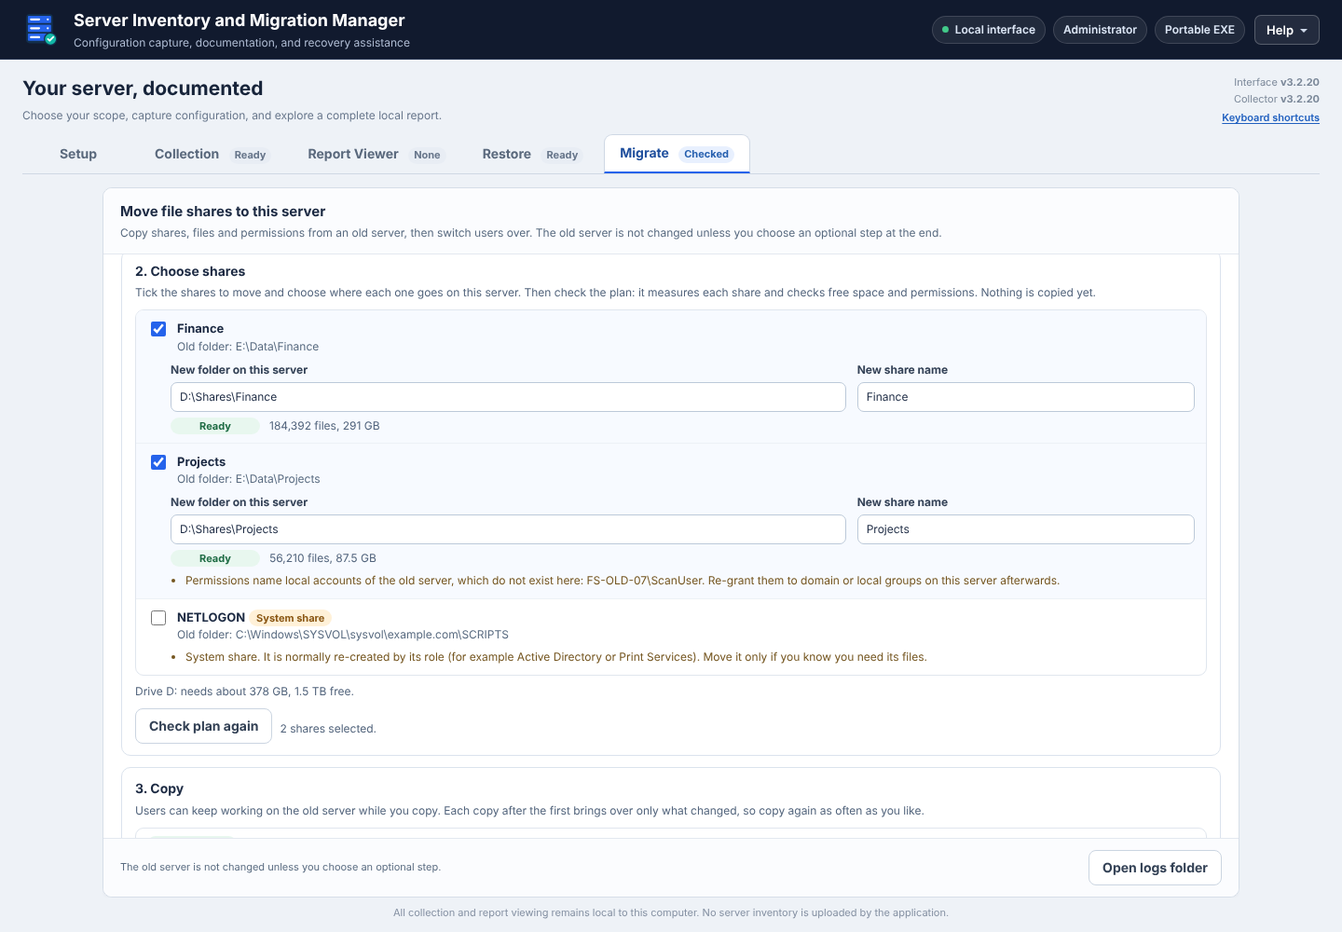
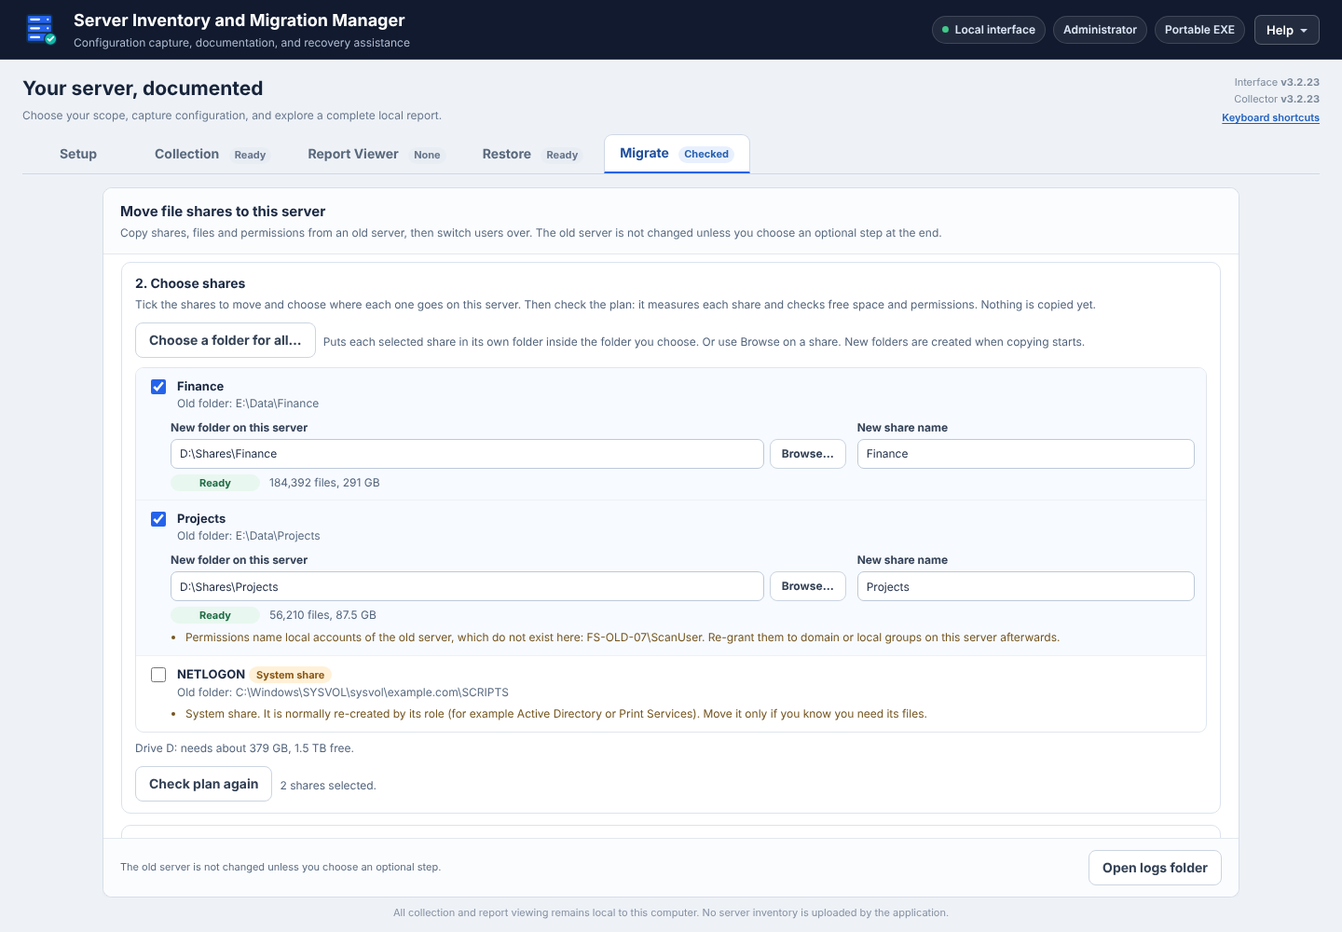
Migrate: choose new folders with the folder picker and check the shares work
Browse per share and Choose a folder for all open the Windows folder
picker. The new top folder gets the old top folder's permissions, which
Robocopy does not copy, and cutover opens each new share through its
network path. Windows, program and profile folders are refused.

Claude-Session: https://claude.ai/code/session_01AkZzWJd4n8w9BN2QEhNZPv

Changed region(s): [[0.0938, 0.279, 0.8125, 0.899], [0.7188, 0.682, 0.7812, 0.713]]

diff --git a/src/app/index.html b/src/app/index.html
@@ -409,6 +409,7 @@ kbd{display:inline-block;min-width:20px;padding:1px 6px;border:1px solid #c9d2df
 .migrate-share-path{display:block;font-size:12px;font-weight:400;color:#596b80;overflow-wrap:anywhere}
 .migrate-dest{display:grid;grid-template-columns:minmax(0,2fr) minmax(0,1fr);gap:8px 12px;margin:8px 0 0 25px}
 .migrate-dest label{display:block;font-size:12px;font-weight:650;color:#334156;min-width:0}
+.migrate-dest-path{display:flex;gap:6px;margin-top:4px;min-width:0}.migrate-dest-path input{margin-top:0!important;flex:1 1 auto;min-width:0}.migrate-dest-path button{flex:none;min-height:32px;padding:0 12px;font-size:12px}
 .migrate-dest input{display:block;width:100%;box-sizing:border-box;height:32px;margin-top:4px;border:1px solid #bcc9d9;border-radius:7px;padding:0 9px;font:inherit;font-size:12px;font-weight:400;color:#1b2942}
 .migrate-notes{margin:6px 0 0 25px;padding-left:16px;font-size:12px}.migrate-notes li{margin:2px 0}
 .migrate-notes .warn{color:#74551f}.migrate-notes .problem{color:#8c2626;font-weight:600}
@@ -671,6 +672,7 @@ kbd{display:inline-block;min-width:20px;padding:1px 6px;border:1px solid #c9d2df
           <section class="migrate-section inactive" id="migrateStepChoose" aria-labelledby="migrateChooseTitle">
             <h3 class="migrate-section-title" id="migrateChooseTitle">2. Choose shares</h3>
             <p class="migrate-help">Tick the shares to move and choose where each one goes on this server. Then check the plan: it measures each share and checks free space and permissions. Nothing is copied yet.</p>
+            <div class="migrate-row hidden" id="migrateParentRow"><button class="secondary-button" id="migrateParent" type="button">Choose a folder for all&hellip;</button><span class="migrate-help">Puts each selected share in its own folder inside the folder you choose. Or use Browse on a share. New folders are created when copying starts.</span></div>
             <div class="migrate-shares hidden" id="migrateShares"></div>
             <div class="migrate-space hidden" id="migrateSpace"></div>
             <div class="migrate-row"><button class="secondary-button" id="migrateCheck" type="button" disabled>Check plan</button><span class="migrate-help" id="migrateSelectionSummary"></span></div>
@@ -1606,7 +1608,10 @@ kbd{display:inline-block;min-width:20px;padding:1px 6px;border:1px solid #c9d2df
       head.appendChild(box);head.appendChild(main);row.appendChild(head);
       var dest=el('div','migrate-dest');dest.setAttribute('data-migrate-dest-block',name);
       var pathLabel=el('label','','New folder on this server'),pathInput=document.createElement('input');pathInput.type='text';pathInput.setAttribute('data-migrate-dest',name);pathInput.spellcheck=false;pathInput.autocomplete='off';pathInput.value=migrateSelection[name].destPath;
-      pathInput.addEventListener('input',function(){migrateSelection[name].destPath=this.value;syncMigrateButtons();});pathLabel.appendChild(pathInput);
+      pathInput.addEventListener('input',function(){migrateSelection[name].destPath=this.value;syncMigrateButtons();});
+      var pathRow=el('span','migrate-dest-path'),browse=el('button','secondary-button','Browse\u2026');browse.type='button';browse.setAttribute('data-migrate-browse',name);browse.setAttribute('aria-label','Browse for the new folder of '+name);
+      browse.addEventListener('click',function(e){e.preventDefault();browseMigrateFolder(name);});
+      pathRow.appendChild(pathInput);pathRow.appendChild(browse);pathLabel.appendChild(pathRow);
       var nameLabel=el('label','','New share name'),nameInput=document.createElement('input');nameInput.type='text';nameInput.setAttribute('data-migrate-destname',name);nameInput.spellcheck=false;nameInput.autocomplete='off';nameInput.value=migrateSelection[name].destName;
       nameInput.addEventListener('input',function(){migrateSelection[name].destName=this.value;syncMigrateButtons();});nameLabel.appendChild(nameInput);
       dest.appendChild(pathLabel);dest.appendChild(nameLabel);row.appendChild(dest);
@@ -1636,7 +1641,7 @@ kbd{display:inline-block;min-width:20px;padding:1px 6px;border:1px solid #c9d2df
       box.disabled=locked||!(share&&share.remotePath);if(sel.on){count++;}
       row.className='migrate-share'+(sel.on?' selected':'');
       row.querySelector('[data-migrate-dest-block]').classList.toggle('hidden',!sel.on);
-      var inputs=row.querySelectorAll('[data-migrate-dest-block] input');for(var i=0;i<inputs.length;i++){inputs[i].disabled=locked;}
+      var inputs=row.querySelectorAll('[data-migrate-dest-block] input,[data-migrate-dest-block] button');for(var i=0;i<inputs.length;i++){inputs[i].disabled=locked;}
       renderMigrateCheck(name,row);
     });
     byId('migrateSelectionSummary').textContent=count?(count===1?'1 share selected.':count+' shares selected.'):'No shares selected.';
@@ -1652,6 +1657,7 @@ kbd{display:inline-block;min-width:20px;padding:1px 6px;border:1px solid #c9d2df
     var held=!!(m.account&&other&&trimText(byId('migrateUser').value).toLowerCase()===String(m.account).toLowerCase());
     byId('migratePassword').placeholder=held?'Password (kept for this session)':'Password';
     byId('migrateReset').classList.toggle('hidden',!(m.source||discovery));byId('migrateReset').disabled=locked;
+    byId('migrateParentRow').classList.toggle('hidden',!discovery||!(discovery.shares||[]).length);byId('migrateParent').disabled=locked||!chosen.length;
     byId('migrateCheck').disabled=locked||!discovery||!chosen.length;byId('migrateCheck').textContent=m.prechecked&&!dirty?'Check plan again':'Check plan';
     var copy=byId('migrateCopy');copy.disabled=locked||!m.canCopy||dirty;copy.textContent=anySynced?'Copy again':'Copy now';
     copy.title=dirty&&discovery?'Check the plan after changing it.':(!m.canCopy?'Check the plan, and fix any problem it finds, first.':'');
@@ -1777,6 +1783,28 @@ kbd{display:inline-block;min-width:20px;padding:1px 6px;border:1px solid #c9d2df
     }
     migratePost('/api/migrate/discover',body,'migrateConnectStatus',function(err){byId('migratePassword').value='';if(!err){migrateMarkRunning('discover','discovering','Connecting to '+label+'.');}});
   }
+  function migrateFolderName(name){return String(name).replace(/\$$/,'').replace(/[\\\/:*?"<>|]/g,'_').replace(/[. ]+$/,'')||'Share';}
+  function browseMigrateFolder(name){
+    if(migrateLocked()){return;}
+    migratePost('/api/migrate/browse',{share:name},'migrateCheckStatus',function(err,data){
+      if(err||!data||!data.selected||!migrateSelection[name]){return;}
+      migrateSelection[name].destPath=data.path;var input=document.querySelector('input[data-migrate-dest="'+name.replace(/"/g,'\\"')+'"]');if(input){input.value=data.path;}
+      syncMigrateShares();
+    });
+  }
+  function chooseMigrateParent(){
+    if(migrateLocked()||!migrateSelectedShares().length){return;}
+    migratePost('/api/migrate/browse',{parent:true},'migrateCheckStatus',function(err,data){
+      if(err||!data||!data.selected){return;}
+      var base=String(data.path).replace(/\\+$/,''),count=0;
+      migrateOrder.forEach(function(name){
+        var sel=migrateSelection[name];if(!sel||!sel.on){return;}
+        sel.destPath=base+'\\'+migrateFolderName(trimText(sel.destName)||name);count++;
+        var input=document.querySelector('input[data-migrate-dest="'+name.replace(/"/g,'\\"')+'"]');if(input){input.value=sel.destPath;}
+      });
+      syncMigrateShares();migrateSetStatus('migrateCheckStatus',(count===1?'1 share':count+' shares')+' will go in '+data.path+'. Check the plan again.',false);
+    });
+  }
   function checkMigratePlan(){
     var shares=migrateSelectedShares();if(!shares.length||migrateLocked()){return;}
     migratePost('/api/migrate/plan',{shares:shares},'migrateCheckStatus',function(err){
@@ -1813,6 +1841,7 @@ kbd{display:inline-block;min-width:20px;padding:1px 6px;border:1px solid #c9d2df
   byId('migrateSource').addEventListener('input',syncMigrateButtons);
   byId('migrateSource').addEventListener('keydown',function(e){if(e.key==='Enter'){e.preventDefault();connectMigrate();}});
   byId('migrateConnect').addEventListener('click',connectMigrate);
+  byId('migrateParent').addEventListener('click',chooseMigrateParent);
   ['migrateAccountCurrent','migrateAccountOther'].forEach(function(id){byId(id).addEventListener('change',function(){syncMigrateButtons();if(byId('migrateAccountOther').checked){byId('migrateUser').focus();}});});
   byId('migrateUser').addEventListener('input',syncMigrateButtons);
   ['migrateUser','migratePassword'].forEach(function(id){byId(id).addEventListener('keydown',function(e){if(e.key==='Enter'){e.preventDefault();connectMigrate();}});});

diff --git a/src/app/migrate.go b/src/app/migrate.go
@@ -702,6 +702,9 @@ func validateMigratePlan(discovery *migrateDiscovery, input []migratePlanInput, 
 		if names[strings.ToUpper(destName)] {
 			return nil, fmt.Errorf("The share name %s is used twice.", destName)
 		}
+		if reason := migrateProtectedFolder(destPath); reason != "" {
+			return nil, fmt.Errorf("The new folder for %s is %s. Choose a folder for shared data, such as D:\\Shares\\%s.", source.Name, reason, source.Name)
+		}
 		names[strings.ToUpper(destName)] = true
 		lower := strings.ToLower(destPath) + `\`
 		for _, other := range paths {
@@ -717,6 +720,88 @@ func validateMigratePlan(discovery *migrateDiscovery, input []migratePlanInput, 
 		plan = append(plan, state)
 	}
 	return plan, nil
+}
+
+// migrateProtectedFolder names why a folder must not receive a mirrored copy:
+// Windows, program and profile folders would be damaged by Robocopy /MIR.
+func migrateProtectedFolder(path string) string {
+	clean := strings.ToLower(filepath.Clean(path))
+	protected := map[string]string{
+		"SystemRoot":        "inside the Windows folder",
+		"ProgramFiles":      "inside Program Files",
+		"ProgramFiles(x86)": "inside Program Files",
+		"ProgramData":       "inside ProgramData",
+		"PUBLIC":            "inside the user profiles folder",
+	}
+	for variable, reason := range protected {
+		root := os.Getenv(variable)
+		if variable == "PUBLIC" && root != "" {
+			root = filepath.Dir(root)
+		}
+		if root == "" {
+			continue
+		}
+		root = strings.ToLower(filepath.Clean(root))
+		if clean == root || strings.HasPrefix(clean, root+`\`) {
+			return reason
+		}
+	}
+	if len(clean) == 2 && clean[1] == ':' {
+		return "a drive root"
+	}
+	return ""
+}
+
+// handleMigrateBrowse opens the Windows folder picker on this server for a
+// share's new folder (or a parent folder for every share). The picker can
+// make new folders; the copy creates a missing folder itself.
+func (a *application) handleMigrateBrowse(response http.ResponseWriter, request *http.Request) {
+	if !a.requireAuthorization(response, request) {
+		return
+	}
+	var input struct {
+		Share  string `json:"share"`
+		Parent bool   `json:"parent"`
+	}
+	if !decodeMigrateRequest(response, request, &input) {
+		return
+	}
+	if !a.beginCriticalOperation() {
+		writeJSON(response, http.StatusConflict, map[string]any{"ok": false, "error": "An update is being installed."})
+		return
+	}
+	defer a.endCriticalOperation()
+	if a.migrateBusy() {
+		writeJSON(response, http.StatusConflict, map[string]any{"ok": false, "error": "Wait for the current step to finish."})
+		return
+	}
+	title := "Choose the parent folder for the new shares on this server. Each share gets its own folder inside it. Use Make New Folder to create one."
+	if !input.Parent {
+		share := strings.TrimSpace(input.Share)
+		if len(share) > 80 {
+			share = share[:80]
+		}
+		title = "Choose the folder on this server for the share " + share + ". Use Make New Folder to create one. It must be empty or new."
+	}
+	selectedPath, selected, err := chooseFolder(title)
+	if err != nil {
+		writeJSON(response, http.StatusInternalServerError, map[string]any{"ok": false, "error": err.Error()})
+		return
+	}
+	if !selected {
+		writeJSON(response, http.StatusOK, map[string]any{"ok": true, "selected": false})
+		return
+	}
+	clean := filepath.Clean(selectedPath)
+	if !migrateDestPathPattern.MatchString(clean) && !(input.Parent && len(clean) == 3 && migrateDestPathPattern.MatchString(clean+"x")) {
+		writeJSON(response, http.StatusBadRequest, map[string]any{"ok": false, "error": "Choose a folder on a local drive of this server, such as D:\\Shares. Network locations cannot hold the new shares."})
+		return
+	}
+	if reason := migrateProtectedFolder(clean); reason != "" && !(input.Parent && reason == "a drive root") {
+		writeJSON(response, http.StatusBadRequest, map[string]any{"ok": false, "error": "That folder is " + reason + ". Choose a folder for shared data, such as D:\\Shares."})
+		return
+	}
+	writeJSON(response, http.StatusOK, map[string]any{"ok": true, "selected": true, "path": clean})
 }
 
 func (a *application) handleMigratePlan(response http.ResponseWriter, request *http.Request) {

diff --git a/src/app/migrate_windows_test.go b/src/app/migrate_windows_test.go
@@ -238,3 +238,24 @@ func TestMigrateConnectAsAccountStaysInMemory(t *testing.T) {
 		t.Fatal("Start over kept the account")
 	}
 }
+
+func TestMigrateRefusesWindowsProgramAndProfileFolders(t *testing.T) {
+	discovery := migrateTestDiscovery()
+	for _, folder := range []string{os.Getenv("SystemRoot") + `\Shares\Finance`, os.Getenv("ProgramFiles") + `\Finance`, os.Getenv("ProgramData") + `\Finance`, filepath.Dir(os.Getenv("PUBLIC")) + `\Someone\Finance`} {
+		if _, err := validateMigratePlan(discovery, []migratePlanInput{{Name: "Finance", DestName: "Finance", DestPath: folder}}, nil); err == nil || !strings.Contains(err.Error(), "Choose a folder for shared data") {
+			t.Fatalf("%s was accepted: %v", folder, err)
+		}
+	}
+	for _, folder := range []string{`D:\Shares\Finance`, `C:\Data\Finance`, `E:\Program Files Old\Finance`} {
+		if _, err := validateMigratePlan(discovery, []migratePlanInput{{Name: "Finance", DestName: "Finance", DestPath: folder}}, nil); err != nil {
+			t.Fatalf("%s was refused: %v", folder, err)
+		}
+	}
+	a := &application{token: "migrate-test", computerName: "SRV-DEMO-01", admin: true, shutdown: make(chan struct{})}
+	a.migrate.action = "sync"
+	recorder := httptest.NewRecorder()
+	a.handleMigrateBrowse(recorder, httptest.NewRequest(http.MethodPost, "/?token=migrate-test", strings.NewReader(`{"share":"Finance"}`)))
+	if recorder.Code != http.StatusConflict {
+		t.Fatal("the folder picker opened during a migration step:", recorder.Code, recorder.Body.String())
+	}
+}

diff --git a/src/app/main.go b/src/app/main.go
@@ -2236,6 +2236,7 @@ func (a *application) serve(listener net.Listener) error {
 	mux.HandleFunc("/api/restore/start", a.handleRestoreStart)
 	mux.HandleFunc("/api/restore/cancel", a.handleRestoreCancel)
 	mux.HandleFunc("/api/migrate/discover", a.handleMigrateDiscover)
+	mux.HandleFunc("/api/migrate/browse", a.handleMigrateBrowse)
 	mux.HandleFunc("/api/migrate/plan", a.handleMigratePlan)
 	mux.HandleFunc("/api/migrate/precheck", a.handleMigratePrecheck)
 	mux.HandleFunc("/api/migrate/sync", a.handleMigrateSync)

diff --git a/AGENTS.md b/AGENTS.md
@@ -42,7 +42,7 @@ Read this file and DEVELOPMENT_HANDOFF.md before making changes.
 
 23. On 2026-11-12 the owner renamed the application to **Server Inventory and Migration Manager** everywhere users see it (window and page titles, interface, About, message boxes, Windows FileDescription, release titles, README). `displayName` in `src/app/main.go` is the visible name. `appName` stays "Server Inventory Configuration Manager" as the stable identity: the LocalAppData folder, the Windows ProductName that every published updater requires (`binary_validation.go`; changing it makes existing installs reject updates), the EXE filename, repository and asset names. Window discovery uses `isApplicationTitle`, which accepts both names so a rollback to an older version is still recognised. Report and Word content written by the protected collector is unchanged.
 
-24. The 2026-11-12 file share migration (Migrate tab) is user-requested: live copy from the old server, run on the new server, every share except administrative shares (system shares listed but unticked), and all optional after-cutover steps offered. `src/app/Migrate-FileShares.ps1` (PowerShell 3.0 compatible) and `src/app/migrate.go` implement it. Keep Robocopy `/MIR` from ever running into a destination that holds files the migration did not create (checked in both Precheck and Sync), keep copies repeatable and resumable from `Migrations\<source>\state.json`, and parse Robocopy summaries by row/column position because its labels are localized. The old server is changed only by the explicit read-only step, which saves permissions first so Undo restores them. The old-name alias (`netdom computername /add`) is offered only when the old name no longer answers and this server is domain-joined with netdom present, and needs a typed confirmation. Every step is a critical operation that blocks collection, restore, update install and closing. `scripts/Test-Migration.ps1` (CI job `migration`) runs a real round trip with the runner as both servers. The optional Connect as account (2026-11-18, user-requested) reaches the engine only as one JSON line on standard input (`-CredentialFromInput`), never on a command line, in state.json, the state response (user name only), logs or settings; Go holds it in memory for the current source until Start over or exit. The engine uses it for CIM (`-Credential`) and for files through a run-scoped `WNetAddConnection2` connection to `\\<old>\IPC$`, removed when the run ends. Access-denied failures emit an `accessDenied` event so the tab opens the account fields. The migration test covers it with a synthetic local administrator on the runner and checks that no output file contains the password.
+24. The 2026-11-12 file share migration (Migrate tab) is user-requested: live copy from the old server, run on the new server, every share except administrative shares (system shares listed but unticked), and all optional after-cutover steps offered. `src/app/Migrate-FileShares.ps1` (PowerShell 3.0 compatible) and `src/app/migrate.go` implement it. Keep Robocopy `/MIR` from ever running into a destination that holds files the migration did not create (checked in both Precheck and Sync), keep copies repeatable and resumable from `Migrations\<source>\state.json`, and parse Robocopy summaries by row/column position because its labels are localized. The old server is changed only by the explicit read-only step, which saves permissions first so Undo restores them. The old-name alias (`netdom computername /add`) is offered only when the old name no longer answers and this server is domain-joined with netdom present, and needs a typed confirmation. Every step is a critical operation that blocks collection, restore, update install and closing. `scripts/Test-Migration.ps1` (CI job `migration`) runs a real round trip with the runner as both servers. The optional Connect as account (2026-11-18, user-requested) reaches the engine only as one JSON line on standard input (`-CredentialFromInput`), never on a command line, in state.json, the state response (user name only), logs or settings; Go holds it in memory for the current source until Start over or exit. The engine uses it for CIM (`-Credential`) and for files through a run-scoped `WNetAddConnection2` connection to `\\<old>\IPC$`, removed when the run ends. Access-denied failures emit an `accessDenied` event so the tab opens the account fields. The migration test covers it with a synthetic local administrator on the runner and checks that no output file contains the password. New folders (2026-11-20, user-requested): `/api/migrate/browse` opens the native folder picker (a folder dialog, so it is a critical operation and refused while a step runs) for one share or a parent for all; `migrateProtectedFolder` refuses Windows, Program Files, ProgramData and profile folders. Robocopy does not copy the top folder's ACL, so `Set-RootPermissions` gives the new top folder the old one's effective ACL (inherited entries included, generic rights mapped) as a protected list before the copy, only when it differs, to avoid re-propagating through the tree on later passes. Cutover opens `\\<this server>\<share>` and marks the share for attention if it does not open.
 
 ## Build and validate
 

diff --git a/README.md b/README.md
@@ -139,9 +139,9 @@ Device drivers other than print drivers, Active Directory, SQL Server, RRAS, AD 
 The **Migrate** tab (Alt+5) moves file shares from an old server to the server you run the application on. Run it as administrator on the **new** server. The old server is reached with the account you are signed in with, or with another account you enter under **Connect as**. Either way, that account must be an administrator on the old server, normally a domain account. A local account with the same name and password is not enough, because Windows removes administrator rights from local accounts over the network. If the old server refuses access, the tab opens the **Connect as** fields for you. The password is kept in memory only, until you close the application or choose Start over, and is never saved or written to a log. The old server must allow remote management: WinRM (on by default since Windows Server 2012) or the Windows Management Instrumentation firewall rules.
 
 1. **Connect:** type the old server's name and, if needed, choose **Another account** under Connect as and enter a user name (DOMAIN\admin or admin@domain) and password. Every share except administrative shares (C$, ADMIN$, IPC$) is listed with its folder and permissions. System shares such as NETLOGON or print$ are shown but not ticked.
-2. **Choose shares:** tick the shares to move and choose the new folder and share name for each (defaults: `D:\Shares\<name>` on the drive with the most free space, same share name). **Check plan** measures each share and checks that the old folder can be read, the new folder is empty, there is enough free space, and which permissions name accounts that won't exist here.
-3. **Copy:** copies files, folders, timestamps, attributes and NTFS permissions with Robocopy while users keep working. **Copy again** as often as you like; each pass copies only what changed and removes what was deleted on the old server. A copy never runs into a folder that already holds other files.
-4. **Cut over:** ask users to stop using the old shares, then type this server's name to confirm. A final copy runs, the shares are created here with the old share settings and share permissions, and the old and new folders are compared.
+2. **Choose shares:** tick the shares to move and choose the new folder and share name for each (defaults: `D:\Shares\<name>` on the drive with the most free space, same share name). **Browse** opens the Windows folder picker for one share (with Make New Folder), and **Choose a folder for all** puts every selected share in its own folder inside the folder you pick. Folders that don't exist yet are created when copying starts; Windows, Program Files, ProgramData and user profile folders are refused. **Check plan** measures each share and checks that the old folder can be read, the new folder is empty, there is enough free space, and which permissions name accounts that won't exist here.
+3. **Copy:** copies files, folders, timestamps, attributes and NTFS permissions with Robocopy while users keep working. The new top folder gets the old top folder's permissions too, including those it inherited on the old server, so access works the same. **Copy again** as often as you like; each pass copies only what changed and removes what was deleted on the old server. A copy never runs into a folder that already holds other files.
+4. **Cut over:** ask users to stop using the old shares, then type this server's name to confirm. A final copy runs, the shares are created here with the old share settings and share permissions, the old and new folders are compared, and each new share is opened through its network path (`\\<this server>\<share>`) to confirm it works.
 
 After cutover, three optional steps help users find the new shares:
 

diff --git a/DEVELOPMENT_HANDOFF.md b/DEVELOPMENT_HANDOFF.md
@@ -1,3 +1,12 @@
+## Unreleased: Migrate chooses new folders and checks the shares work — 2026-11-20
+
+User request: "the file share migrator should be able to select new directories to migrate the shares to and make them functional."
+
+- Choose shares: a **Browse…** button per share (Windows folder picker with Make New Folder) and **Choose a folder for all…** (each selected share goes to `<parent>\<new share name>`). `/api/migrate/browse` returns the path; local drive folders only; refused while a step runs. Plan validation now refuses Windows, Program Files, ProgramData and profile folders (`migrateProtectedFolder`).
+- Functional shares: Sync creates the folder and, before Robocopy, gives the new top folder the old top folder's effective NTFS permissions (own and inherited, generic rights mapped to file rights) as a protected list, only when they differ. Cutover opens `\\<this server>\<share>` and reports `reachable`/`sharePath`; a share that does not open is marked for attention.
+- Tests: Go protected-folder and busy-picker checks; workspace Browse/parent/lock/refusal check; migration round trip checks the top folder's own and inherited permissions, subfolder inheritance, no re-application on the second copy, and the new share opening through its network path.
+- README Migrate steps and `docs/images/migrate-choose.png` updated (captured from the real page with synthetic state).
+
 ## 3.2.22 published and verified — 2026-11-18
 
 - [Release v3.2.22](https://github.com/TechSavage1989/Server-Inventory-Configuration-Manager/releases/tag/v3.2.22) ("Server Inventory and Migration Manager 3.2.22"), tag and target commit `4335ac5736a2bd0f659994d9d116a47f748f4dba` (publication PR #50, changing only `release/VERSION`). Source: Migrate Connect as another account #48; release preparation #49.
